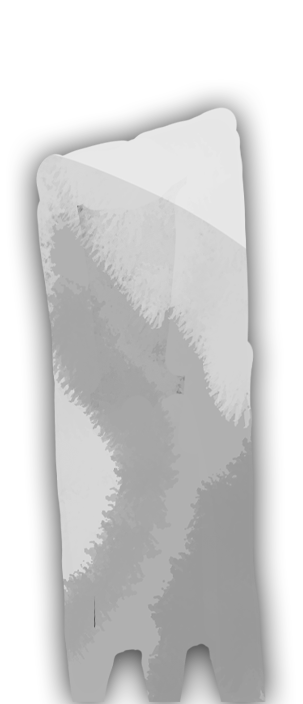
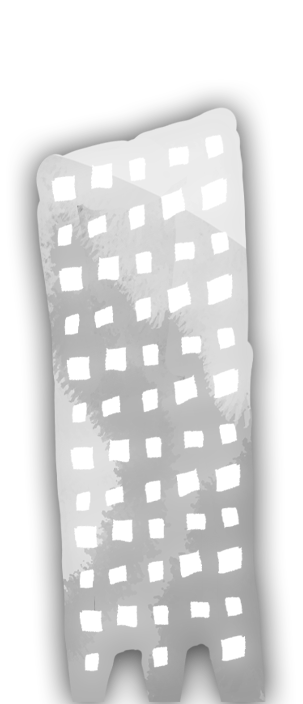
Decor - FIX - Remplacement d'assets
- Remplacement de dex assets des buildings
- Passage de l'origine de la zone à colorier à gauche au milieu

diff --git a/src/components/Colorable/ColorableArea.ts b/src/components/Colorable/ColorableArea.ts
@@ -47,10 +47,10 @@ export default class ColorableArea {
 
   constructor(scene: Phaser.Scene, x: number, y: number, depth: number, rng: Rng) {
     this.#scene = scene;
-    this.#x = x;
-    this.#y = y;
     this.#heigth = this.#scene.scale.height;
     this.#width = this.#scene.scale.width;
+    this.#x = x + this.#width / 2;
+    this.#y = this.#scene.scale.height * 2 / 3;
     this.#depth = depth;
     this.#rng = rng;
     this.#decorFullNb = 0;
